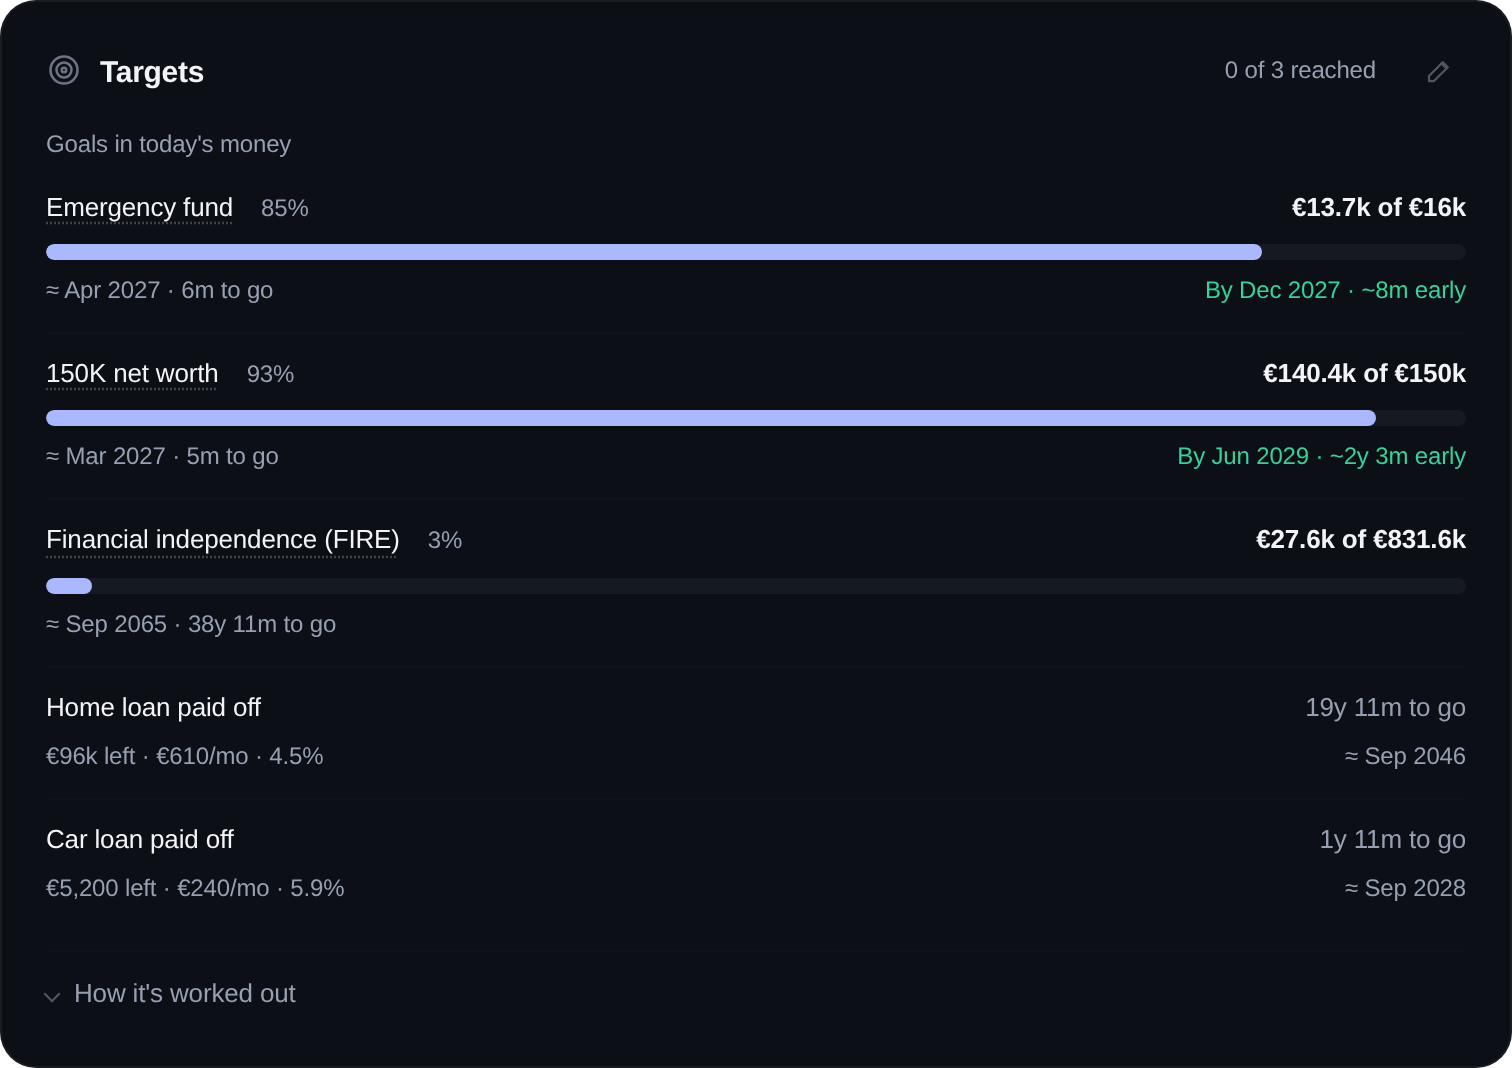
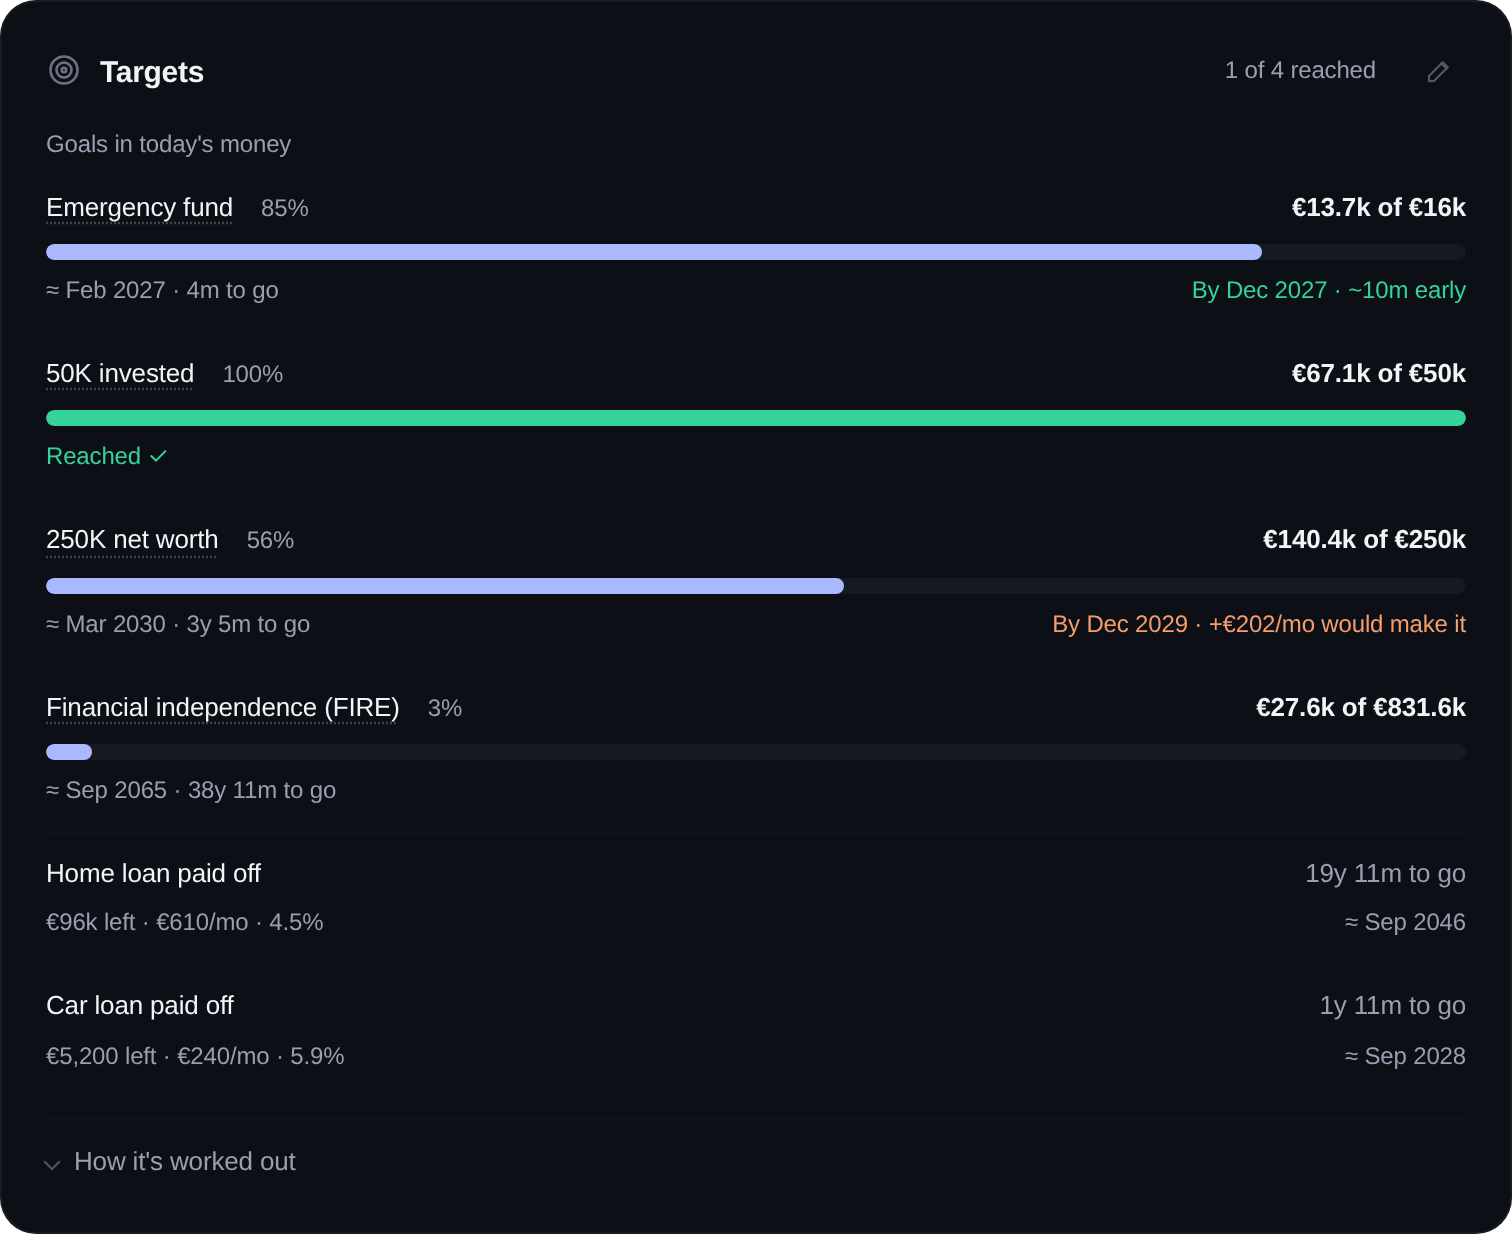
Estonian Finance Planner v1.2.2

diff --git a/index.html b/index.html
@@ -30,7 +30,7 @@
 <head>
 <meta charset="UTF-8">
 <meta name="viewport" content="width=device-width, initial-scale=1.0">
-<meta http-equiv="Content-Security-Policy" content="default-src 'none'; script-src 'sha256-JdYKCqNlQkNwZBKYTi9iN/WZConOmcz1r5DovBJIWHA=' 'sha256-wCjk7ynKI5X9xnuAknSU5baNI0ZyqG8ebYDzZRbI3gM='; style-src 'unsafe-inline'; font-src data:; img-src data: blob:; connect-src 'none'; form-action 'none'; base-uri 'none'">   <!-- privacy, enforced: the page may load nothing and send nothing; only its own scripts (allowed by SHA-256 fingerprint: after editing a script, run tools/update_csp.py), styles and built-in font run -->
+<meta http-equiv="Content-Security-Policy" content="default-src 'none'; script-src 'sha256-JdYKCqNlQkNwZBKYTi9iN/WZConOmcz1r5DovBJIWHA=' 'sha256-bR1h/Alj2u9DARR+FNbZJN+QSuqxDpxicvRCU5lDSLY='; style-src 'unsafe-inline'; font-src data:; img-src data: blob:; connect-src 'none'; form-action 'none'; base-uri 'none'">   <!-- privacy, enforced: the page may load nothing and send nothing; only its own scripts (allowed by SHA-256 fingerprint: after editing a script, run tools/update_csp.py), styles and built-in font run -->
 <meta name="referrer" content="no-referrer">   <!-- links out (source code, license) don't tell the other site which page you came from -->
 <meta name="color-scheme" content="dark">   <!-- the page is already dark: stops browser auto-dark modes (and the darkreader-lock line, the Dark Reader extension) from recoloring it -->
 <meta name="darkreader-lock">
@@ -1190,7 +1190,7 @@ try{ const u=JSON.parse(localStorage.getItem('strategy_ui_v1'))||{}, h=document.
       </div>
     </details>
   </div>
-  <footer class="sitefoot"><span><span class="sitefoot-lock" aria-hidden="true"><svg viewBox="0 0 24 24" fill="none" stroke="currentColor" stroke-width="1.7" stroke-linecap="round" stroke-linejoin="round"><rect x="5" y="11" width="14" height="9" rx="2"/><path d="M8 11V7a4 4 0 0 1 8 0v4"/></svg></span>Private: nothing you enter ever leaves this browser.</span><a href="https://github.com/UnauthenticatedUser/Finance-Planner" target="_blank" rel="noopener">Source code</a><a href="https://github.com/UnauthenticatedUser/Finance-Planner/blob/main/LICENSE" target="_blank" rel="noopener">GPL-3.0</a><span class="sitefoot-ver">v1.2.1</span></footer>
+  <footer class="sitefoot"><span><span class="sitefoot-lock" aria-hidden="true"><svg viewBox="0 0 24 24" fill="none" stroke="currentColor" stroke-width="1.7" stroke-linecap="round" stroke-linejoin="round"><rect x="5" y="11" width="14" height="9" rx="2"/><path d="M8 11V7a4 4 0 0 1 8 0v4"/></svg></span>Private: nothing you enter ever leaves this browser.</span><a href="https://github.com/UnauthenticatedUser/Finance-Planner" target="_blank" rel="noopener">Source code</a><a href="https://github.com/UnauthenticatedUser/Finance-Planner/blob/main/LICENSE" target="_blank" rel="noopener">GPL-3.0</a><span class="sitefoot-ver">v1.2.2</span></footer>
   </div>
 
 </div>
@@ -2739,7 +2739,10 @@ function exampleState(){
     p3funds:[{name:L('Voluntary pension fund','Vabatahtlik pensionifond'), value:11800, share:100, fee:0.3}],
     physAssets:[{name:L('Car','Auto'), value:11000}, {name:L('Computer','Arvuti'), value:1800}],
     debts:[{name:L('Home loan','Kodulaen'), balance:96000, rtype:'euribor', margin:1.6, payment:610, asset:148000}, {name:L('Car loan','Autolaen'), balance:5200, rtype:'fixed', rate:5.9, payment:240}],
-    targets:[{name:L('Emergency fund','Rahapuhver'), kind:'cash', amount:16000, dueMon:'12', dueYear:String(y+1)}, {name:L('150K net worth','150K netovara'), kind:'networth', amount:150000, dueMon:'06', dueYear:String(y+3)}, {kind:'fire', spend:30000, health:'yes'}],
+    incomes:[{name:L('Rental income','Üüritulu'), amount:350, freq:'month', tax:'custom', rate:17.6}],
+    // one target of each state: on track, reached, behind its deadline, and FIRE with no deadline
+    targets:[{name:L('Emergency fund','Rahapuhver'), kind:'cash', amount:16000, dueMon:'12', dueYear:String(y+1)}, {name:L('50K invested','50K investeeritud'), kind:'invested', amount:50000},
+             {name:L('250K net worth','250K netovara'), kind:'networth', amount:250000, dueMon:'12', dueYear:String(y+3)}, {kind:'fire', spend:30000, health:'yes'}],
     history:nw.map((v,i)=>({m:ago(nw.length-i), nw:v})),
     text:{goalsHTML:'<li>'+[L('Keep 6 months of spending as cash','Hoia rahapuhvris 6 kuu kulud'), L('Invest 20% of take-home pay','Investeeri 20% netopalgast'), L('Pay off the car loan early','Maksa autolaen ennetähtaegselt tagasi')].join('</li><li>')+'</li>'}}));
 }

diff --git a/README.md b/README.md
@@ -61,7 +61,9 @@ Nothing to install, nothing to sign up for.
 - **Retirement**: what you'd live on per month after tax, from the state pension, your pension funds and your investments.
 - **Net worth over time**: one snapshot is saved each month automatically, and you can add earlier months yourself.
 
-![Targets with deadlines: on track, behind with the extra needed per month, FIRE, and loan payoff dates](docs/card-targets.png)
+![Your path zoomed to retirement: net worth split into property, pensions, investments, cash and loans, with the hover box for one month and the dates of each target, loan payoff and retirement](docs/card-path.png)
+
+![Targets: one on track to beat its deadline, one reached, one behind with the extra needed per month, FIRE, and loan payoff dates](docs/card-targets.png)
 
 ![Retirement income per month in today's money, with How it's worked out open](docs/card-retirement.png)
 

diff --git a/CHANGELOG.md b/CHANGELOG.md
@@ -2,6 +2,10 @@
 
 All notable changes to Estonian Finance Planner are listed here, newest first. Versions follow [semantic versioning](https://semver.org): the last number is for fixes, the middle one for new features, the first one for changes that break something. Saved data and backups from v1.0.0 on keep loading in every later version.
 
+## [1.2.2] – 2026-10-16
+
+- **A richer example.** "Show an example" now has a target already reached ("50K invested") and one behind its deadline ("250K net worth", with the extra per month that would make it), next to one on track and FIRE, so every kind of target status can be seen. It also has rental income under Other income, taxed 17.6%. The README screenshots show the new example, and Your path has its own screenshot.
+
 ## [1.2.1] – 2026-10-16
 
 Fixes for v1.2.0, and Estonian rules the tool had simplified.
